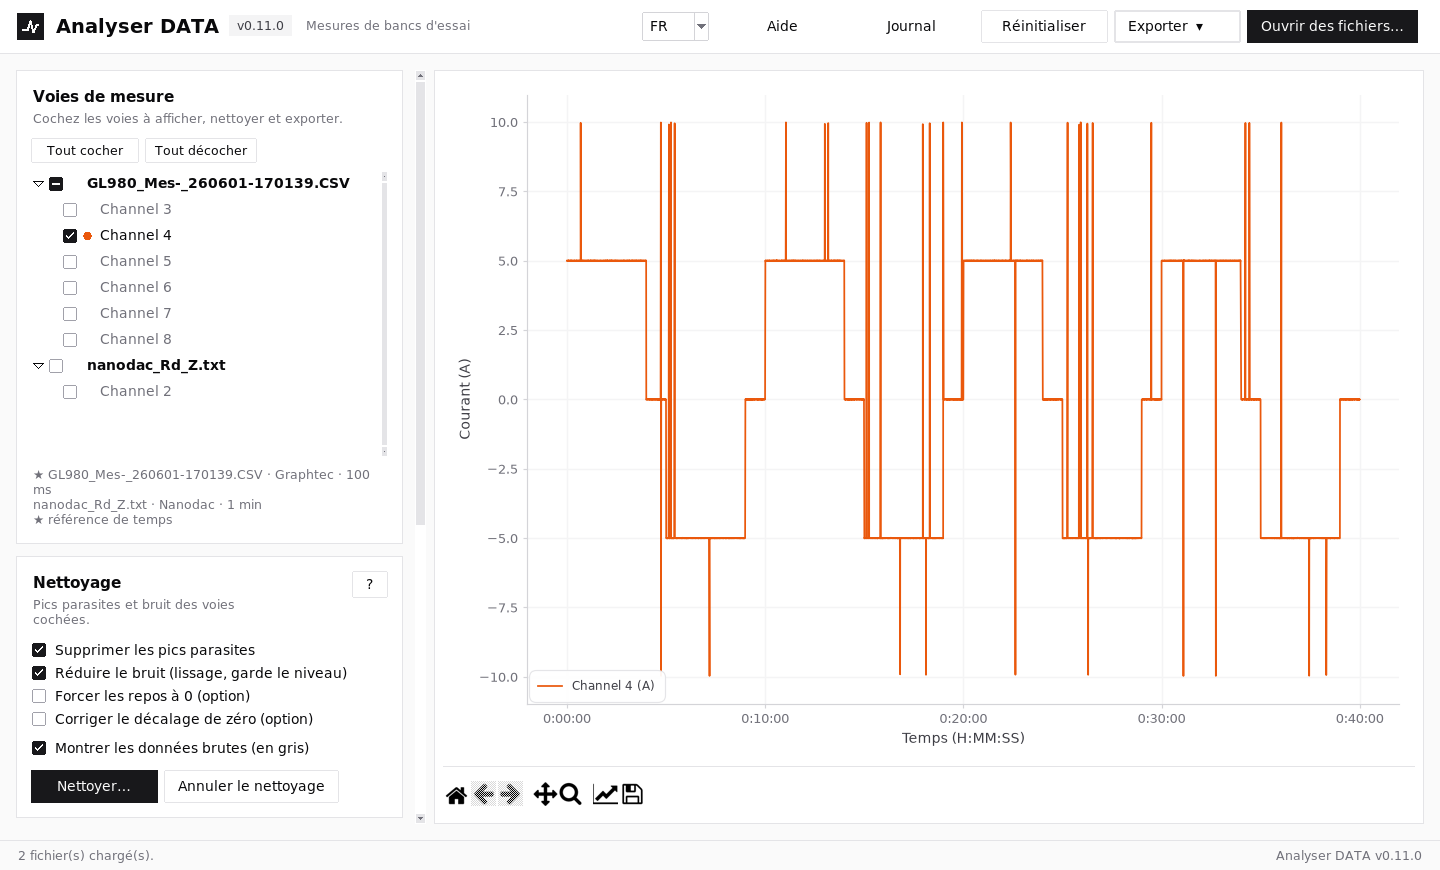
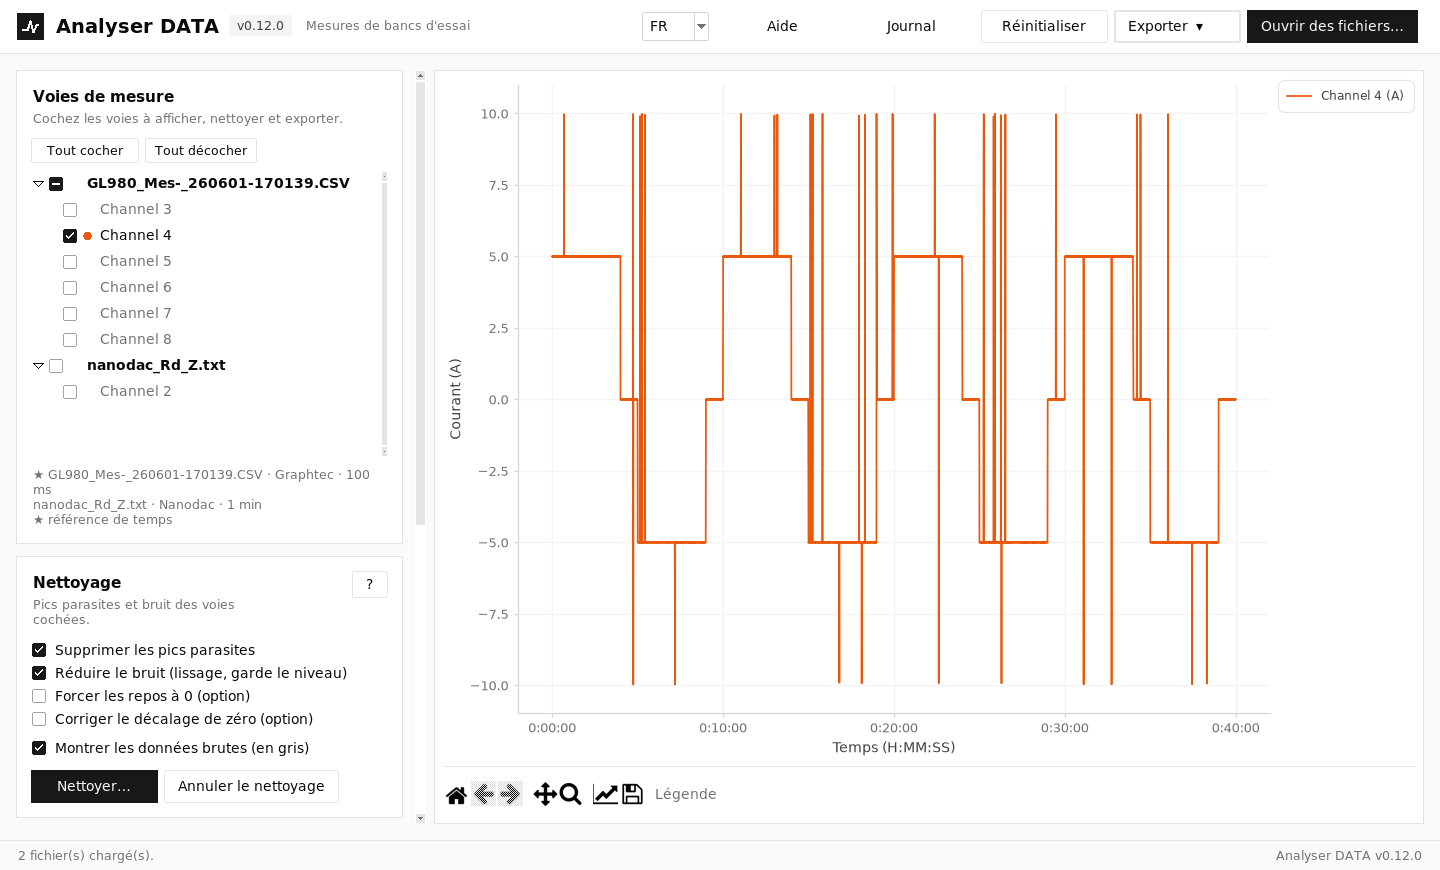
Légende fixée hors de la zone des courbes (v0.12.0)
- légende de figure placée hors du tracé : à droite par défaut (plusieurs colonnes s'il y
  a beaucoup de voies, après les axes °C / %HR), en haut ou en bas ; la mise en page
  (constrained) réduit la zone des courbes d'autant, aussi au redimensionnement
- choix de la position dans « Modifier les axes et les courbes » (Droite, Haut, Bas,
  Masquée) ; bouton rapide « Légende » dans la barre d'outils pour la masquer / l'afficher
- exports image et PDF : même position, légende écartée du bord de la page A4

Closes #6

diff --git a/analyser_data/plotting.py b/analyser_data/plotting.py
@@ -18,7 +18,9 @@ from matplotlib.ticker import FuncFormatter, Locator, MaxNLocator
 from .channels import HUMIDITY, TEMPERATURE
 from .i18n import _
 
-LEGEND_MAX_ROWS = 20
+# Position de la légende, toujours HORS de la zone des courbes (issue #6)
+LEGEND_POSITIONS = {"right": "À droite", "top": "En haut", "bottom": "En bas", "hidden": "Masquée"}
+_LEGEND_LOC = {"right": "outside right upper", "top": "outside upper center", "bottom": "outside lower center"}
 
 
 @dataclass
@@ -70,6 +72,7 @@ class PlotSettings:
     x: AxisSettings = field(default_factory=AxisSettings)
     y: Dict[str, AxisSettings] = field(default_factory=dict)
     curves: Dict[Tuple[str, str], CurveStyle] = field(default_factory=dict)
+    legend: str = "right"  # LEGEND_POSITIONS
 
     def y_axis(self, name: str) -> AxisSettings:
         return self.y.setdefault(name, AxisSettings())
@@ -206,8 +209,9 @@ def axis_title(series: Sequence[PlotSeries]) -> str:
 def _auto_layout(fig) -> None:
     """Mise en page recalculée à CHAQUE dessin : marges justes même si la taille ou l'échelle
     d'affichage (Windows à 125 %, 150 %) changent après le dessin, ex. au changement de langue."""
+    # « constrained » : réserve aussi la place de la légende placée hors des courbes
     try:
-        fig.set_layout_engine("tight")
+        fig.set_layout_engine("constrained", w_pad=0.06, h_pad=0.06)
     except AttributeError:  # pragma: no cover - Matplotlib < 3.6
         fig.set_tight_layout(True)
 
@@ -250,6 +254,7 @@ class PlotManager:
         self.figure = figure
         self.time_offset_min = 0.0
         self.percent_axis = False  # axe du temps en % de la durée (mode « étiré »)
+        self.legend_pad = 0.5  # écart légende / bord de la figure (en taille de police)
         self._traces: Dict[str, _Trace] = {}
         self._main_ax = None
         self.colors: Dict[str, str] = {}  # gid -> couleur de la courbe
@@ -262,6 +267,7 @@ class PlotManager:
         self._traces = {}
         self.colors = {}
         self.axes = {}
+        self.legend = None
         ax = fig.add_subplot(111)
         self._main_ax = ax
         settings = settings or PlotSettings()
@@ -361,7 +367,7 @@ class PlotManager:
         self.axes = axes
         self._apply_axis_settings(settings)
 
-        self._place_legend(ax, list(axes.values())[-1], handles, n_twins=len(axes) - 1)
+        self._place_legend(ax, handles, settings.legend)
         if settings.x.min is not None or settings.x.max is not None:
             self._on_xlim_changed(ax)  # points de la période choisie
         # Zoom / déplacement : on recalcule les points visibles
@@ -442,21 +448,29 @@ class PlotManager:
         t = _("{:.2f} %").format(x) if self.percent_axis else format_hms(x)
         return _("t = {}   y = {:.6g}").format(t, y)
 
-    @staticmethod
-    def _place_legend(ax, top_ax, handles, n_twins: int) -> None:
+    def _place_legend(self, ax, handles, position: str) -> None:
+        """Légende hors de la zone des courbes (issue #6) : à droite (plusieurs colonnes s'il y a
+        beaucoup de voies), en haut ou en bas ; la mise en page réduit le tracé d'autant."""
+        self.legend = None
+        if not handles or position == "hidden":
+            return
+        fig = self.figure
         labels = [h.get_label() for h in handles]
-        if len(handles) <= LEGEND_MAX_ROWS:
-            # Légende sur l'axe du dessus pour qu'elle ne soit pas masquée par les courbes.
-            # "best" teste chaque point : trop lent quand il y a beaucoup de courbes.
-            loc = "best" if len(handles) <= 4 else "upper right"
-            leg = top_ax.legend(handles, labels, loc=loc, fontsize="small", framealpha=0.95)
+        size = "small" if len(handles) <= 12 else "x-small"
+        points = 8.3 if size == "small" else 6.9
+        if position in ("top", "bottom"):
+            longest = max(len(label) for label in labels)
+            ncol = max(1, min(len(handles), int(fig.get_figwidth() * 72 / (points * 0.62 * longest + 34))))
         else:
-            ncol = math.ceil(len(handles) / LEGEND_MAX_ROWS)
-            anchor_x = 1.02 + 0.09 * n_twins + (0.06 if n_twins else 0)
-            leg = top_ax.legend(
-                handles, labels, loc="upper left", bbox_to_anchor=(anchor_x, 1.0),
-                ncol=ncol, fontsize="x-small", framealpha=0.85, borderaxespad=0.0,
-            )
+            position = "right"
+            rows = max(5, int((fig.get_figheight() * 72 - 24) / (points * 1.75)))
+            ncol = math.ceil(len(handles) / rows)
+        try:
+            leg = fig.legend(handles, labels, loc=_LEGEND_LOC[position], ncol=ncol, fontsize=size,
+                             framealpha=0.95, borderaxespad=self.legend_pad)
+        except ValueError:  # pragma: no cover - Matplotlib < 3.7 : pas de position « outside »
+            leg = ax.legend(handles, labels, loc="upper left", bbox_to_anchor=(1.12, 1.0), ncol=ncol,
+                            fontsize=size, borderaxespad=0.0)
         from .theme import C
 
         frame = leg.get_frame()
@@ -465,4 +479,4 @@ class PlotManager:
         frame.set_boxstyle("round,pad=0.4,rounding_size=0.6")
         for text in leg.get_texts():
             text.set_color(C["fg_soft"])
-        leg.set_draggable(True)
+        self.legend = leg

diff --git a/analyser_data/app.py b/analyser_data/app.py
@@ -278,7 +278,8 @@ class AnalyserDataApp:
         holder = ttk.Frame(frame, style="Card.TFrame")
         holder.pack_propagate(False)
         self.canvas = FigureCanvasTkAgg(self.figure, master=holder)
-        toolbar = _Toolbar(self.canvas, frame, on_home=self._on_home, on_edit=self.edit_axes)
+        toolbar = _Toolbar(self.canvas, frame, on_home=self._on_home, on_edit=self.edit_axes,
+                           on_legend=self.toggle_legend)
         toolbar.update()
         _flatten_toolbar(toolbar)
         toolbar.pack(side=tk.BOTTOM, fill=tk.X)
@@ -429,6 +430,16 @@ class AnalyserDataApp:
         keep = settings.x.min is None and settings.x.max is None
         self._redraw_with_view(self.plot.current_view() if keep else None)
         self._set_status(_("Axes et courbes mis à jour (gardés jusqu'au bouton « Maison »)."))
+
+    def toggle_legend(self) -> None:
+        """Bouton « Légende » : masque la légende, ou la réaffiche à sa dernière position."""
+        settings = self.plot_settings
+        if settings.legend == "hidden":
+            settings.legend = getattr(self, "_legend_position", "right")
+        else:
+            self._legend_position = settings.legend
+            settings.legend = "hidden"
+        self._redraw_with_view(self.plot.current_view())
 
     def _on_home(self) -> None:
         """Bouton « Maison » : limites automatiques (titres, libellés et styles gardés)."""
@@ -857,7 +868,7 @@ def _thousands(n: int) -> str:
 class _Toolbar(NavigationToolbar2Tk):
     """Barre Matplotlib + bouton « Modifier les axes et les courbes » (comme la version Qt)."""
 
-    def __init__(self, canvas, master, on_home, on_edit):
+    def __init__(self, canvas, master, on_home, on_edit, on_legend):
         self._on_home, self._on_edit = on_home, on_edit
         # « Marges » retiré : la mise en page est automatique. Bouton d'édition avant « Enregistrer ».
         items = [item for item in NavigationToolbar2Tk.toolitems if item[0] != "Subplots"]
@@ -865,6 +876,9 @@ class _Toolbar(NavigationToolbar2Tk):
                                       "qt4_editor_options", "edit_parameters"))
         self.toolitems = [(t, _(TOOLTIPS[t]) if t in TOOLTIPS else tip, img, cb) for t, tip, img, cb in items]
         super().__init__(canvas, master, pack_toolbar=False)
+        # Bouton rapide : afficher / masquer la légende (issue #6)
+        self.legend_button = self._Button(_("Légende"), None, toggle=False, command=on_legend)
+        self.legend_button.configure(padx=8)
 
     def home(self, *args):
         self._on_home()

diff --git a/tests/test_analyser_data.py b/tests/test_analyser_data.py
@@ -808,7 +808,7 @@ def test_temperature_color_matches_curve_legend_axis_and_stays_fixed():
         plot = PlotManager(Figure())
         plot.draw(s.series(keys), settings=settings)
         by_label = {line.get_label(): to_hex(line.get_color()) for a in plot.axes.values() for line in a.get_lines()}
-        legend = plot.figure.axes[-1].get_legend()
+        legend = plot.legend
         legend_colors = {t.get_text(): to_hex(h.get_color()) for t, h in zip(legend.get_texts(), legend.legend_handles)}
         return plot, by_label, legend_colors
 
@@ -829,3 +829,34 @@ def test_temperature_color_matches_curve_legend_axis_and_stays_fixed():
     fig = _plot_figure(s, every, None, "Rapport")  # export image / PDF
     exported = {line.get_label(): to_hex(line.get_color()) for a in fig.axes for line in a.get_lines()}
     assert exported["Température ambiante"] == TEMPERATURE_COLOR
+
+
+@pytest.mark.parametrize("position", ["right", "top", "bottom"])
+@pytest.mark.parametrize("count", [3, 40])
+def test_legend_is_outside_the_curves(position, count):
+    """Issue #6 : légende hors de la zone des courbes (aussi avec 40 voies et les axes °C),
+    zone de tracé réduite d'autant, mêmes règles à l'export."""
+    from matplotlib.backends.backend_agg import FigureCanvasAgg
+    from matplotlib.figure import Figure
+
+    from analyser_data.plotting import PlotManager, PlotSeries, PlotSettings
+
+    x = np.linspace(0, 60, 500)
+    series = [PlotSeries(gid=str(i), label="Channel {} (mA)".format(i), x=x, y=np.sin(x + i), unit="mA",
+                         quantity=CURRENT, key=("f", "Channel {}".format(i))) for i in range(count)]
+    series.append(PlotSeries(gid="t", label="Température ambiante", x=x, y=x, unit="°C", quantity=TEMPERATURE,
+                             key=("f", "T")))
+    fig = Figure(figsize=(9, 5.5))
+    FigureCanvasAgg(fig)
+    plot = PlotManager(fig)
+    plot.draw(series, settings=PlotSettings(legend=position))
+    fig.canvas.draw()
+    renderer = fig.canvas.get_renderer()
+    legend = plot.legend.get_window_extent(renderer)
+    assert len(plot.legend.get_texts()) == count + 1
+    for a in fig.axes:
+        assert not legend.overlaps(a.get_window_extent(renderer)), (position, count)
+    assert 0 <= legend.x0 and legend.x1 <= fig.bbox.width + 1 and 0 <= legend.y0 and legend.y1 <= fig.bbox.height + 1
+
+    plot.draw(series, settings=PlotSettings(legend="hidden"))  # bouton « Légende » : masquée
+    assert plot.legend is None and not fig.legends

diff --git a/analyser_data/axes_dialog.py b/analyser_data/axes_dialog.py
@@ -16,7 +16,7 @@ from .channels import HUMIDITY, TEMPERATURE
 from .export import Key
 from .help import HelpWindow
 from .i18n import _, get_language
-from .plotting import LINE_STYLES, MAIN_AXIS, MARKERS, AxisSettings, CurveStyle, PlotSettings, format_hms, parse_hms
+from .plotting import LEGEND_POSITIONS, LINE_STYLES, MAIN_AXIS, MARKERS, AxisSettings, CurveStyle, PlotSettings, format_hms, parse_hms
 from .theme import C, card
 
 AXIS_NAMES = {
@@ -92,6 +92,10 @@ class AxesDialog(tk.Toplevel):
         grid = ttk.Frame(box, style="Card.TFrame")
         grid.pack(fill=tk.BOTH, expand=True)
         self.title_var = self._field(grid, 0, _("Titre du graphique"), self.settings.title, width=46, span=3)
+        ttk.Label(grid, text=_("Légende"), style="Card.TLabel").grid(row=0, column=4, sticky=tk.W, padx=(16, 8))
+        self.legend_var = tk.StringVar(value=_(LEGEND_POSITIONS.get(self.settings.legend, LEGEND_POSITIONS["right"])))
+        ttk.Combobox(grid, textvariable=self.legend_var, values=[_(v) for v in LEGEND_POSITIONS.values()],
+                     state="readonly", width=12).grid(row=0, column=5, sticky=tk.W)
 
         ax = plot.axes[MAIN_AXIS]
         lo, hi = ax.get_xlim()
@@ -179,6 +183,7 @@ class AxesDialog(tk.Toplevel):
         """Réglages saisis. ValueError (message lisible) si un champ est invalide."""
         out = copy.deepcopy(self.settings)
         out.title = self.title_var.get().strip()
+        out.legend = next(k for k, v in LEGEND_POSITIONS.items() if _(v) == self.legend_var.get())
 
         def changed(var, initial):
             return var.get().strip() != initial

diff --git a/analyser_data/report.py b/analyser_data/report.py
@@ -178,16 +178,17 @@ def _summary_page(session, keys, view, title) -> Figure:
 def _plot_figure(session, keys, view, title, settings=None) -> Figure:
     fig = _new_page()
     plot = PlotManager(fig)
+    plot.legend_pad = 2.0  # légende écartée du bord de la page A4
     plot.time_offset_min = session.time_offset_min
     plot.percent_axis = session.percent_axis
     plot.draw(session.series(keys), title=title, settings=settings)
     if view is not None and fig.axes:
         fig.axes[0].set_xlim(*view)
-    try:
-        fig.set_layout_engine("none")  # page A4 : marges fixes
-    except AttributeError:  # pragma: no cover - Matplotlib < 3.6
-        fig.set_tight_layout(False)
-    fig.subplots_adjust(left=0.07, right=0.88 if len(fig.axes) > 1 else 0.96, top=0.92, bottom=0.10)
+    # Mise en page automatique (comme à l'écran) : la légende reste hors des courbes (issue #6),
+    # avec des marges de page A4 (en pouces)
+    engine = fig.get_layout_engine()
+    if hasattr(engine, "set") and "rect" in engine.get():
+        engine.set(rect=(0.02, 0.03, 0.96, 0.95))
     # Mention du logiciel sur chaque image / page de graphique exportée (issue #5)
     fig.text(0.99, 0.01, "{} v{}".format(APP_NAME, __version__), fontsize=7, color=C["muted_fg"],
              ha="right", va="bottom")

diff --git a/tools/smoke_gui.py b/tools/smoke_gui.py
@@ -226,6 +226,13 @@ def main():
     assert any(l.get_label() == "Alimentation" for l in gui.figure.axes[0].get_lines())
     gui.plot_settings = app_module.PlotSettings()
     gui.redraw()
+    assert gui.plot.legend is not None  # légende hors des courbes, à droite (issue #6)
+    gui.canvas.toolbar.legend_button.invoke()
+    pump(root)
+    assert gui.plot.legend is None and gui.plot_settings.legend == "hidden"
+    gui.canvas.toolbar.legend_button.invoke()
+    pump(root)
+    assert gui.plot.legend is not None and gui.plot_settings.legend == "right"
     print("axes et courbes : OK")
 
     help_window = app_module.HelpWindow.open(root, "Nettoyage")

diff --git a/tests/test_i18n.py b/tests/test_i18n.py
@@ -9,7 +9,7 @@ from analyser_data import i18n
 from analyser_data.i18n_en import EN
 
 SOURCES = sorted((Path(__file__).resolve().parent.parent / "analyser_data").glob("*.py"))
-DISPLAY_LISTS = ("TIME_MODES", "EXPORT_STEPS", "PEAK_MODES", "APP_TITLE", "FILE_TYPES", "TOOLTIPS", "LINE_STYLES", "MARKERS", "AXIS_NAMES", "SCALES", "QUANTITY_NAMES")
+DISPLAY_LISTS = ("TIME_MODES", "EXPORT_STEPS", "PEAK_MODES", "APP_TITLE", "FILE_TYPES", "TOOLTIPS", "LINE_STYLES", "MARKERS", "AXIS_NAMES", "SCALES", "QUANTITY_NAMES", "LEGEND_POSITIONS")
 
 
 def translatable_strings():

diff --git a/analyser_data/i18n_en.py b/analyser_data/i18n_en.py
@@ -332,4 +332,9 @@ EN = {
     'VALEUR ABSOLUE': 'ABSOLUTE VALUE',
     'Affichage en valeur absolue |x| : {} [{}] (données inchangées)': 'Absolute value |x| display: {} [{}] (data unchanged)',
     'Affichage en valeur absolue désactivé : {} [{}]': 'Absolute value display turned off: {} [{}]',
+    'Légende': 'Legend',
+    'À droite': 'Right',
+    'En haut': 'Top',
+    'En bas': 'Bottom',
+    'Masquée': 'Hidden',
 }

diff --git a/analyser_data/__init__.py b/analyser_data/__init__.py
@@ -4,4 +4,4 @@
 """
 
 APP_NAME = "Analyser DATA"  # nom affiché partout : fenêtre, en-tête, aide, journal, rapports, images
-__version__ = "0.11.1"
+__version__ = "0.12.0"

diff --git a/README.md b/README.md
@@ -53,7 +53,9 @@ python main.py
 5. Curseur **Décalage enceinte climatique** : recale les courbes du nanodac si l'enceinte est en retard.
 6. Icône **Modifier les axes et les courbes** (barre d'outils du graphique) : titre, début / fin
    du temps en H:MM:SS, min / max / titre / échelle log de chaque axe Y, nom, couleur, épaisseur,
-   trait et **valeur absolue |x|** de chaque voie. Gardé jusqu'au bouton « Maison ».
+   trait et **valeur absolue |x|** de chaque voie, position de la **légende** (toujours hors
+   des courbes : droite, haut, bas ; bouton « Légende » pour la masquer). Gardé jusqu'au
+   bouton « Maison ».
 
    ![Axes et courbes](docs/captures/5-axes-et-courbes.png)
 7. **Exporter ▾** :
